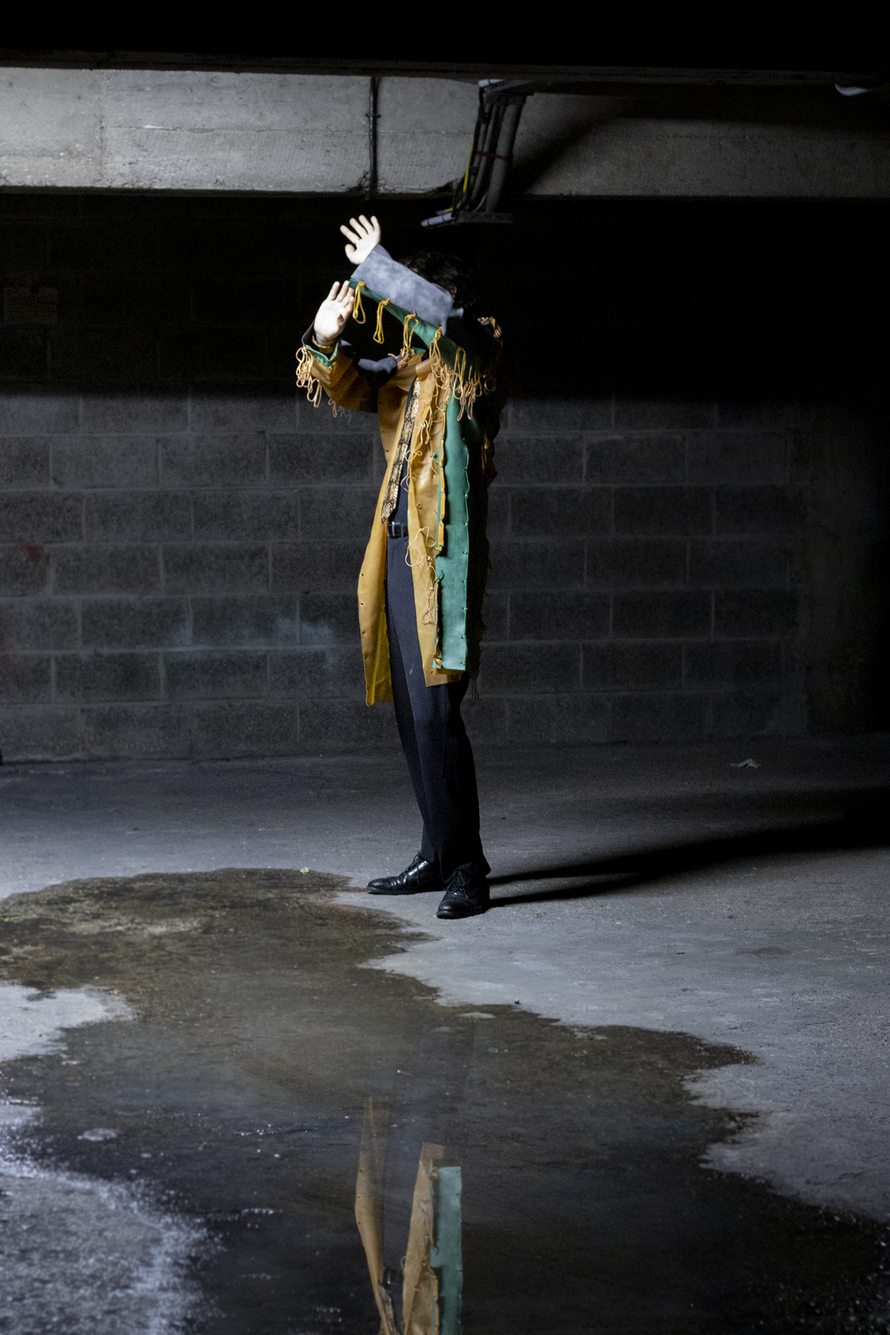
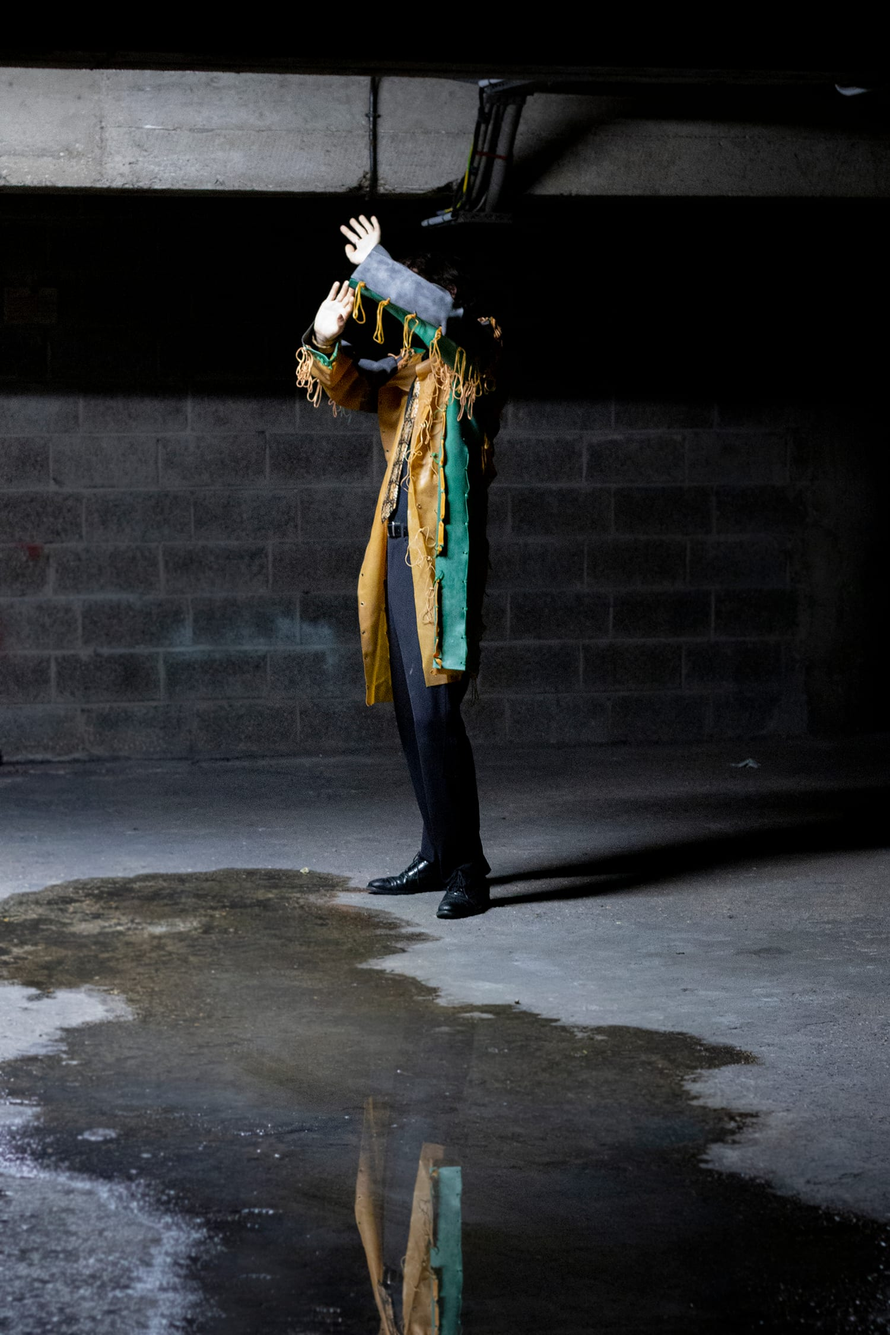
About : corrige la légende photo en "© V. Tanelian" ; Portfolio : ajoute la nouvelle expo KIRUMONOS (sortie de résidence Jakmousse+-, 2023) avec le texte et les 3 photos, récupère 2 fichiers corrompus par un renommage GitHub et nettoie un fichier parasite

Changed region(s): [[0.4907, 0.2801, 0.552, 0.498], [0.46, 0.2179, 0.4907, 0.2801]]

diff --git a/about.html b/about.html
@@ -193,7 +193,7 @@
 
   <aside class="about-portrait">
     <img src="images/portrait_de_LouParisot_©V.Tanelian.jpg" alt="Lou Parisot">
-    <p class="about-portrait__credit">Photo Vartan Tanelian</p>
+    <p class="about-portrait__credit">© V. Tanelian</p>
   </aside>
 
   </div>
